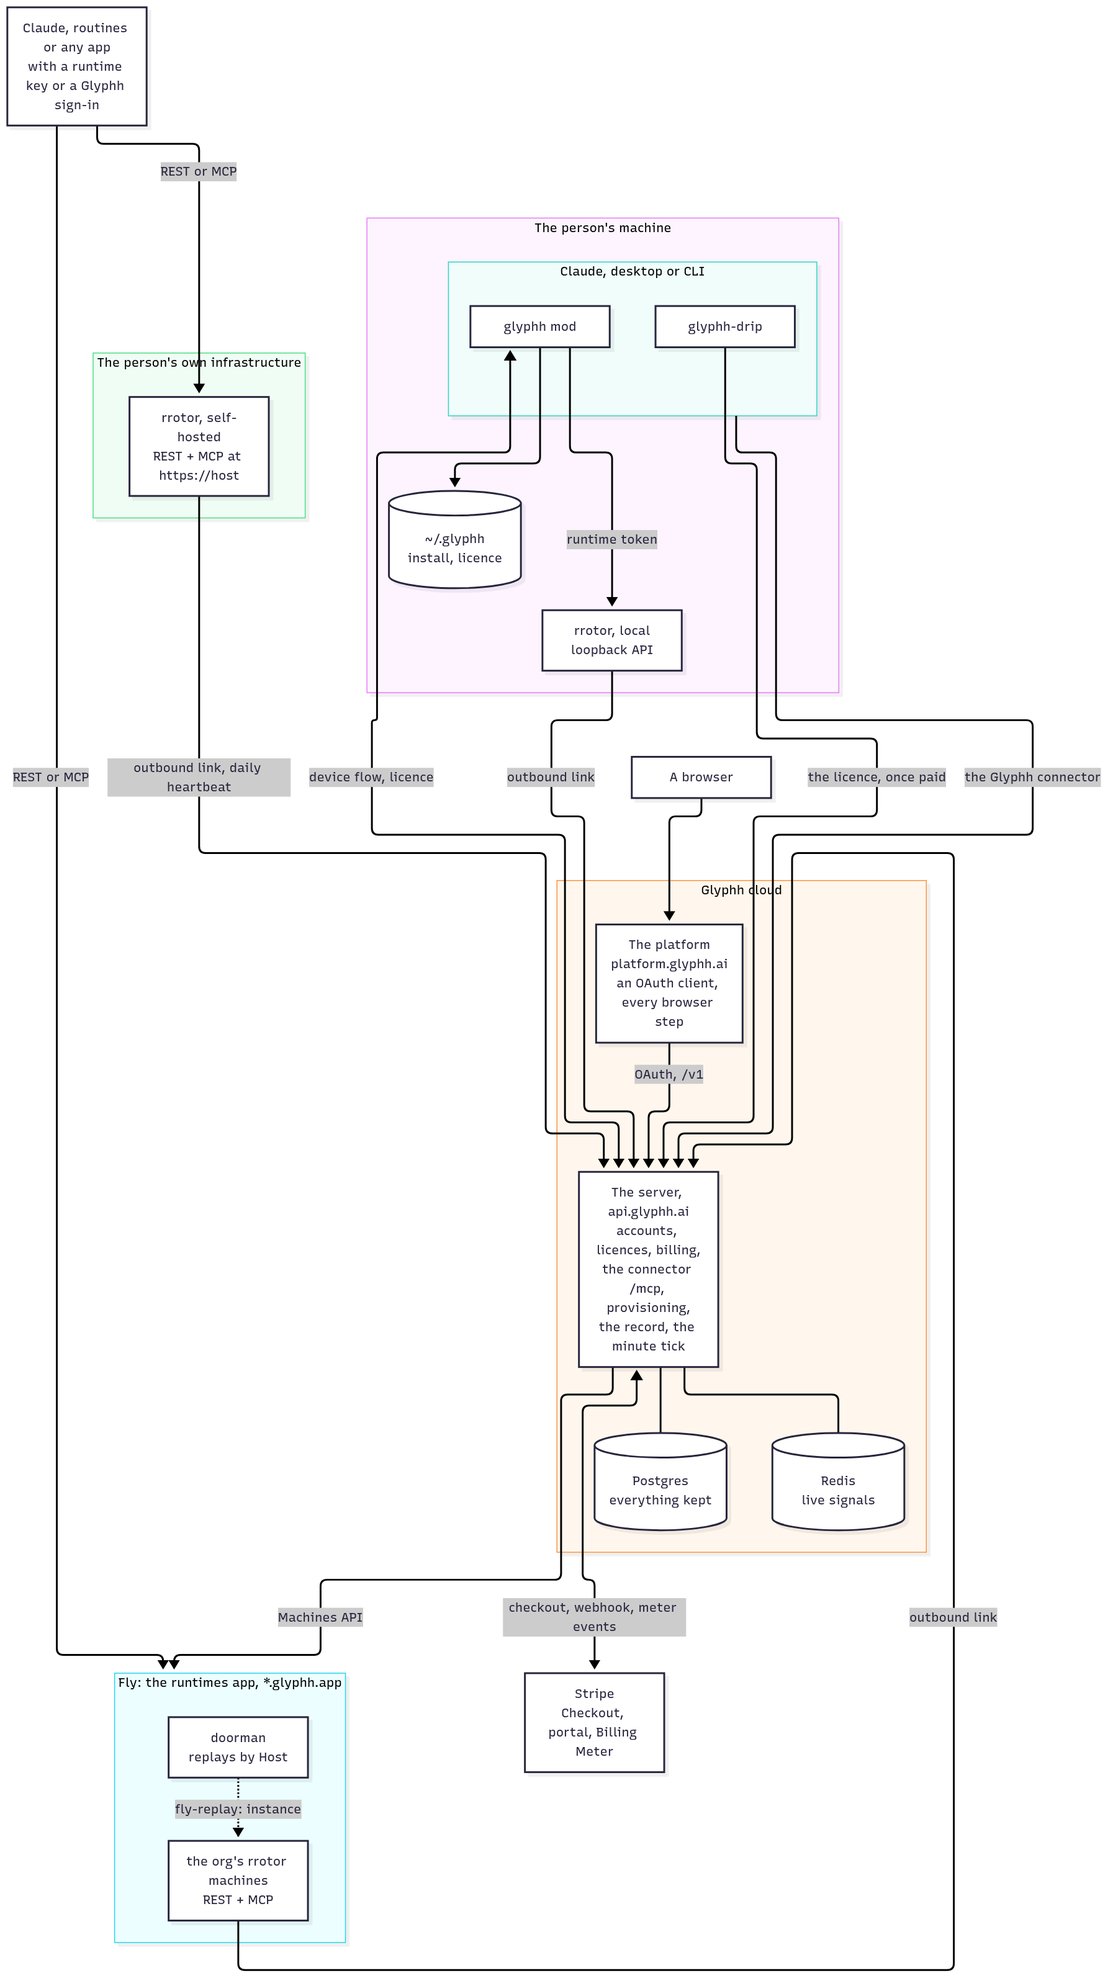
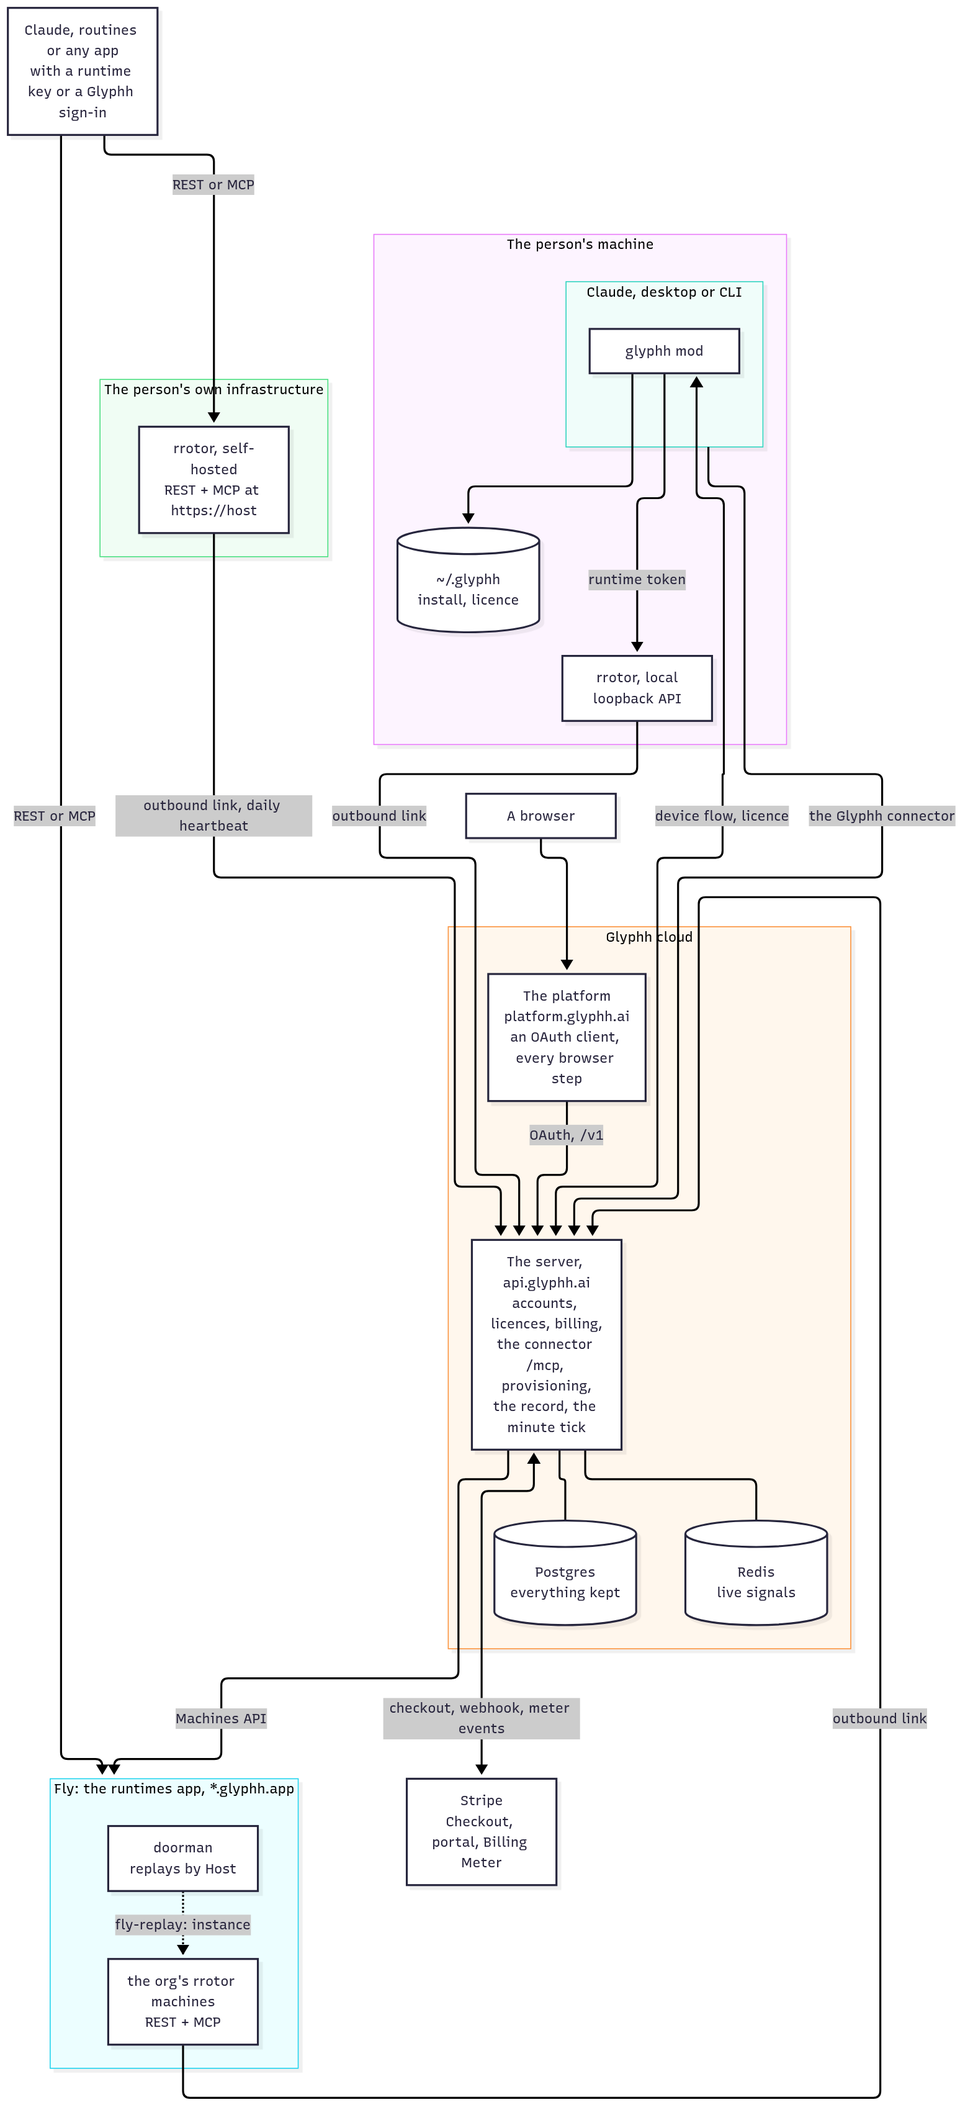
Docs: Glyphh Drip and its unlock out of the product, the mods, the API, the panels, the data model and the plans; both diagrams re-rendered from their source

Changed region(s): [[0.0, 0.0, 1.0, 1.0], [0.8438, 0.9688, 0.875, 1.0]]

diff --git a/server/docs/architecture.md b/server/docs/architecture.md
@@ -9,11 +9,9 @@ Glyphh as it is built: the [product](#product), the [architecture](#architecture
 | Mod | What it is | Runs | Sold | State |
 |---|---|---|---|---|
 | `glyphh` | The account: sign in, the licence, and the account, org, plan and billing panels. Every other mod depends on it | Claude | Every plan | Built |
-| `glyphh-drip` | Glyphh Drip: games and drips (visual effects with sound) over Claude: five arcade games, twenty drips, and the ones you make with Claude; your top score to beat | The person's Mac | Once, $4.99 per machine, no account | Built |
 | Ada | Ada models in your runtime: a typed spec and a precedent store, deployed by commit, run with no network, called by Claude and by any app at the runtime's own address | **rrotor**, an isolated runtime: local and self-hosted on every plan; hosted on Pro, Team and Enterprise | Every plan | Built: the runtime, the `ada` plugin (a skill, in `mods`), the SDKs `@glyphh-ai/ada` and `glyphh-ada` (`glyphh-ai/ada`, public) |
 
 - **Ada is in every plan.** A plan (Free, Pro, Team, Enterprise) sells managed precedents and hosted machines, never seats, models or installs (below, [Plans](#plans); the rules in [pricing.md](pricing.md)).
-- **Glyphh Drip is bought once**, per machine, with no Glyphh account: a Stripe Payment Link, then a licence the server signs for that install, checked offline from then on (below, Bought once).
 - **The platform is the one door.** Sign-in, the runtime and its keys, approvals, billing and the org are pages on the platform; the server renders nothing. In Claude, the `glyphh` mod and the Glyphh connector show the account too.
 - **Glyphh has no model in it.** Claude is the brain, on the person's own Claude; Glyphh's machines do exact work. Glyphh never holds a Claude login ([Anthropic's terms](#anthropics-terms)).
 - **Desktop first, then the CLI.** Mods look like Claude: its theme, its fonts. **Functional first:** every screen works before design draws it.
@@ -27,7 +25,6 @@ flowchart TB
     subgraph Machine["The person's machine"]
         subgraph Claude["Claude, desktop or CLI"]
             Base["glyphh mod"]
-            Fun["glyphh-drip"]
         end
         LocalRotor["rrotor, local<br/>loopback API"]
         Local[("~/.glyphh<br/>install, licence")]
@@ -61,7 +58,6 @@ flowchart TB
 
     Browser --> Platform
     Base <-- "device flow, licence" --> API
-    Fun -- "the licence, once paid" --> API
     Claude -- "the Glyphh connector" --> API
     Callers -- "REST or MCP" --> Fly
     Callers -- "REST or MCP" --> Self
@@ -81,7 +77,7 @@ flowchart TB
 | **The platform** | The one web app: sign in, the runtime and its keys, approvals, billing, the org, the models record; every browser step of every flow | `glyphh-ai/platform` | Routes specified below; pages to build to the design |
 | **The server** | The API and the authorization server: accounts, orgs, installs, the signed licence, plans and metered hosting on Stripe, the Glyphh connector (`/mcp`), provisioning, the runtime link and approvals. Renders nothing | `glyphh-ai/server` | Built |
 | **The `glyphh` mod** | The account in Claude | `glyphh-ai/glyphh` | Built |
-| **The mods** | `glyphh` (the account), `glyphh-drip` (bought once, on `shared/unlock/`), `ada` (the skill: build, deploy and call models on the runtime's connector; no hooks) | `glyphh-ai/mods` | Built |
+| **The mods** | `glyphh` (the account), `ada` (the skill: build, deploy and call models on the runtime's connector; no hooks) | `glyphh-ai/mods` | Built |
 | **The SDKs** | `@glyphh-ai/ada` (npm) and `glyphh-ada` (PyPI): a runtime's API for an app, with a runtime key; one contract (the Result, the Answer, the error) with fixtures taken live | `glyphh-ai/ada` (public, MIT) | Built; publishing on a `sdk-v*` tag |
 | **rrotor** | The runtime Ada installs into: a small base image, the model sandbox and runner, and a part per mod | `glyphh-ai/rrotor` | Built, local, hosted and self-hosted |
 | **The marketplace** | What buyers install from: each mod built, with its live values | Written by each source repo's release build | Built (publishing off) |
@@ -142,7 +138,7 @@ The pages that are the platform's own, from the API with the session's token: Ho
 - **A mod is a Claude Code plugin** whose hooks are a code module (`.claude-plugin/plugin.json`, `hooks/hooks.json` naming `register.tsx`). A mod can ship its own MCP server, skills and commands. Mods are behind `CLAUDE_CODE_ENABLE_FUNCTION_HOOKS` while the API is early access.
 - **Installed from the Glyphh marketplace** at the user scope, so it loads in every session, the desktop's Code tab too. Every mod depends on `glyphh`.
 - **Source and releases are apart.** The source repos hold tests, the shared modules and the release scripts; a release build writes only each mod's shipped files and the marketplace file, with the live server address and licence key swapped in.
-- **A mod sold once** (`glyphh-drip`) keeps its own licence and checks it at start; `/drip unlock` buys it. **A mod on the account** checks the plan's licence at start.
+- **A mod on the account** checks the plan's licence at start.
 
 ### Two kinds of panel
 
@@ -375,7 +371,6 @@ JSON over HTTPS under `/v1`, described by `/openapi.json`. Every call but the he
 | Account | `GET`/`PATCH /v1/me` (the org, the plan, `precedents` and `hosting` as in `GET /v1/billing`), `POST /v1/me/identities` (a link that adds Google or GitHub), `DELETE /v1/me/identities/{provider}`, `GET /v1/installs`, `DELETE /v1/installs/{id}`, `POST /v1/sign-out`, `GET /v1/license`, `GET /v1/license/key`, `POST /v1/license/verify` (a self-hosted runtime's heartbeat, its runtime token as auth) |
 | Org | `GET`/`PATCH /v1/org`, `GET /v1/org/members`, `DELETE /v1/org/members/{user_id}`, `GET`/`POST /v1/org/invites`, `DELETE /v1/org/invites/{id}`, `POST /v1/invites/accept` |
 | Mods, plans, billing | `GET /v1/mods` (each mod and the plans that include it: every one), `GET /v1/plans`, `GET /v1/rates`, `GET /v1/billing`, `POST /v1/billing/checkout`, `/plan`, `/portal`, `POST /v1/stripe/webhook` (below, Billing and hosting) |
-| Bought once | `GET /v1/unlock/license?mod=&install=` (open: `paid` false until the mod's Payment Link checkout for that install is paid, then the licence); Stripe's webhook records `checkout.session.completed` in `payment` mode and `charge.refunded` (below, Bought once) |
 | Runtime | `POST /v1/runtime/local` (a local rrotor's runtime token, for this install: made the first time, rotated after, shown once); `/v1/runtime/link`, the runtime's outbound WebSocket, hosted, local or self-hosted (protocol 1, as rrotor's `docs/architecture.md` section 6: the token in the `Authorization` header, a local runtime refused once its install is signed out, `hello` then `welcome`, the runtime `online` until it closes; results and events acked and applied once by their sequence number; a newer link of the same runtime takes over). Which server process holds which link: in memory, and a Redis channel per runtime, so a message sent on any process reaches it. The service functions other code calls: `send_continue` (an approval's answer) and `send_deploy`; calls never go down the link. A hosted runtime no process holds is woken first (its machine started) and the message waits up to 45 s for its link (with hosting off, `E_UNAVAILABLE` `hosting_off`); a runtime still not linked answers `E_UNAVAILABLE` `runtime_offline` with `last_seen_at`, in words for its kind (`AWAY` in `ops/link/calls.py`: a hosted machine that was started but did not connect in time, a local runtime to start from Claude, a self-hosted one to check). `GET /v1/runtime` (the first machine: `{runtime_id, address, state, region, image_version, last_seen_at, seconds_used}`, `state` `none` with no machine), `POST /v1/runtime/start` (made the first time, within the plan's machines; `E_UNAVAILABLE` `hosting_off` or `fly_failed`), `POST /v1/runtime/stop`, `DELETE /v1/runtime` (the machine, the volume and every model's data on it); `GET`/`POST /v1/runtimes`, `GET /v1/runtimes/{id}`, `POST /v1/runtimes/{id}/start`, `/stop`, `/restart`, `DELETE /v1/runtimes/{id}?confirm=<name>` (above, Machines); `GET`/`POST /v1/runtime/keys` (a key shown once, `glyphh_rk_…`, for the machine or self-hosted runtime `runtime_id` names, or every hosted machine of the person's; its hash to rrotor at once when linked, else in its next welcome), `DELETE /v1/runtime/keys/{id}` (revoked: answers the key, named in the list, dated, no longer taken), `DELETE /v1/runtime/keys/{id}/record` (204: a revoked or expired key's record gone; a live one `E_CONFLICT` `live`); `GET`/`POST /v1/runtimes/self`, `POST /v1/runtimes/self/{id}/token`, `DELETE /v1/runtimes/self/{id}`, `POST /v1/runtimes/{id}/offline-licence` (above, Self-hosted runtimes) |
 | GitHub | `POST /v1/github/install` (a link for the browser, as linking does), `GET /v1/github/install` (to the Glyphh GitHub App's install page), `GET /v1/github/callback` (records the installation, from the browser that started it, when GitHub says it is on the person's own GitHub account), `GET /v1/github/installations`; the Cloud mints a repo-scoped installation token per deploy |
 | Routine triggers | `GET`/`POST /v1/routine-triggers` (name, fire URL, token, optional model; the token is never shown again), `DELETE /v1/routine-triggers/{id}`; the Cloud fires them (`POST …/fire`) on a model's events |
@@ -492,14 +487,6 @@ sequenceDiagram
 
 **Setting Stripe up:** `scripts/stripe-setup.py` (below, Plans).
 
-### Bought once
-
-Glyphh Drip is sold once, per machine, with no Glyphh account. It has a Stripe **Payment Link** (`PAYMENT_LINK` in the mod, set by the release build) whose metadata names the mod (`mod: glyphh-drip`). `/drip unlock` opens it with the mod's own install id as `client_reference_id`, then asks `GET /v1/unlock/license?mod=<mod>&install=<id>` every few seconds.
-
-- **The webhook** records a `checkout.session.completed` in `payment` mode whose metadata names a mod sold once and whose `payment_status` is `paid`: one `unlocks` row per session (a replay changes nothing), with its payment intent. A `charge.refunded` marks the row of that payment intent refunded.
-- **The licence** is `base64url(payload) "." base64url(signature)` (unpadded): the payload `{"v": 1, "mod", "install", "session", "issued"}` as compact JSON, keys sorted, `issued` the purchase's time; the Ed25519 signature over the first part's text, with the server's one key (the one `GET /v1/license/key` serves; the mod carries it, having no account to fetch it with). `GET /v1/unlock/license` answers `{paid, licence}`, the newest purchase not refunded; a mod not sold once is `E_INVALID` `no_mod`. The mod checks it offline and keeps it; `/<mod> key <licence>` carries it to another machine. A refunded purchase is no longer handed out; a licence already on a machine keeps working, which an offline check cannot help.
-- **No account, no org, no row-level security:** the install id is the only key, the licence is for that install alone, and nothing else is learned from it.
-
 ### The connector
 
 A remote MCP server at `{public_url}/mcp`, its own OAuth 2.1 authorization server, following MCP's authorization spec (revision 2026-07-28). Through it a person manages their Glyphh account from Claude or any MCP client.
@@ -562,7 +549,6 @@ The panels in Claude; the platform's pages are above. Each works before design d
 | Sign in, account, org, plan, billing | `glyphh` | Mod | Built |
 | The sign-in card, in the chat | `glyphh`'s MCP server | MCP App | Built |
 | The account: who, plan, usage, upgrade, billing, installs, grants | The Glyphh connector | MCP App | Built |
-| Locked, with the price and **Unlock**; the Drips and Games tabs | `glyphh-drip` | Mod | Built |
 
 ### Anthropic's terms
 
@@ -858,14 +844,6 @@ erDiagram
         text_array grant_types
         timestamp created_at
     }
-    UNLOCKS {
-        text session_id PK "Stripe's checkout session"
-        text mod "glyphh-drip"
-        text install "the mod's own install id"
-        text payment_intent_id UK
-        timestamp paid_at
-        timestamp refunded_at
-    }
     OAUTH_CODES {
         text code_hash PK
         uuid client_id FK
@@ -920,7 +898,6 @@ Every table and column is drawn, as `db/schema.sql` has them (28 tables); the ta
 - **OAuth clients:** the MCP clients that registered (RFC 7591), each with its exact redirect URIs; a confidential one's secret only as a hash. They belong to no org.
 - **OAuth codes:** an authorization the person allowed, until its code is redeemed (once, within 2 minutes), with its PKCE challenge and the resource it is for; `grant_id` names the grant it went into, so a second use revokes it.
 - **Connector grants:** each client (a routine, the desktop, claude.ai) the person allowed to call the Glyphh connector, one live per client, revocable one by one. **Connector tokens:** its access tokens (1 hour) and refresh tokens (30 days, rotated on use; a rotated one used again revokes the grant), kept only as hashes.
-- **Unlocks:** a mod bought once for one machine, from Stripe's finished Payment Link checkout, keyed by the session; its payment intent, so a refund finds it. No org and no user: outside row-level security.
 - **Orgs:** `renews_at` is when the subscription renews, from Stripe; empty when it isn't subscribed or ends at the period's end. `markup_pct` and `plan_until` are an Enterprise grant's.
 
 ### Keys, checks, indexes and row-level security
@@ -956,9 +933,8 @@ Every constraint and index in `db/schema.sql`, table by table. An `ix_<table>_<c
 | `oauth_codes` | PK `code_hash` | `client_id` → `oauth_clients` (cascade); `user_id` → `users` (cascade); `grant_id` → `connector_grants` (cascade) | `ix_oauth_codes_client_id`; `ix_oauth_codes_user_id` | its user is visible |
 | `connector_grants` | PK `id` | `user_id` → `users` (cascade); `client_id` → `oauth_clients` (cascade) | `connector_grants_user_client` unique on (`user_id`, `client_id`) where `revoked_at` is null; `ix_connector_grants_client_id`; `ix_connector_grants_user_id` | its user is visible |
 | `connector_tokens` | PK `id`; `token_hash` unique; `connector_tokens_kind` `kind` in `access`, `refresh` | `grant_id` → `connector_grants` (cascade) | `ix_connector_tokens_grant_id` | its grant is visible |
-| `unlocks` | PK `session_id`; `payment_intent_id` unique; `unlocks_mod` `mod` in `glyphh-drip` | none | `ix_unlocks_mod_install` on (`mod`, `install`) | none: no org |
 
-**Row-level security.** Each of the 22 tables marked above has row-level security enabled and forced (so it binds the server's own role, which is no superuser), and one policy, `tenant`. A request made with an install's token or an OAuth access token, and a runtime's own link, heartbeat and introspection, run in their org: `glyphh.org_id` is set for the transaction (`db/tenancy.py`). With it set, `tenant` shows only that org's rows: the org itself, rows whose `org_id` is it, and rows reached through a visible parent (a user, an install, a grant, a model, a version or a run). With it unset (sign-in, the connector's OAuth endpoints, Stripe's webhook, the schema step, the minute tick's sweeps and the few operations that cross orgs on purpose, such as joining another org) every row is seen. The tables marked none (`mods`, `plans`, `plan_versions`, `fly_rates`, `device_codes`, `oauth_clients`, `unlocks`) belong to no org.
+**Row-level security.** Each of the 22 tables marked above has row-level security enabled and forced (so it binds the server's own role, which is no superuser), and one policy, `tenant`. A request made with an install's token or an OAuth access token, and a runtime's own link, heartbeat and introspection, run in their org: `glyphh.org_id` is set for the transaction (`db/tenancy.py`). With it set, `tenant` shows only that org's rows: the org itself, rows whose `org_id` is it, and rows reached through a visible parent (a user, an install, a grant, a model, a version or a run). With it unset (sign-in, the connector's OAuth endpoints, Stripe's webhook, the schema step, the minute tick's sweeps and the few operations that cross orgs on purpose, such as joining another org) every row is seen. The tables marked none (`mods`, `plans`, `plan_versions`, `fly_rates`, `device_codes`, `oauth_clients`) belong to no org.
 
 ### In rrotor
 
@@ -966,7 +942,7 @@ Every constraint and index in `db/schema.sql`, table by table. An `ix_<table>_<c
 
 ## Plans
 
-Never per seat, per model or per install: a plan sells managed precedents and the managed hosting option, flat, and every mod (Ada) is in every plan. Glyphh Drip is outside the plans: $4.99 once, per machine. The rules, and how an Enterprise customer is set up, are in [pricing.md](pricing.md).
+Never per seat, per model or per install: a plan sells managed precedents and the managed hosting option, flat, and every mod (Ada) is in every plan. The rules, and how an Enterprise customer is set up, are in [pricing.md](pricing.md).
 
 | | Free | Pro | Team | Enterprise |
 |---|---|---|---|---|

diff --git a/server/README.md b/server/README.md
@@ -1,6 +1,6 @@
 # server
 
-The Glyphh server: the one cloud part behind Glyphh's mods for Claude, sold as flat plans (Free, Pro, Team, Enterprise) that each include every mod on the account (`ada`), never per seat, per model or per install, with hosted machines metered per second; and one mod bought once, per machine, with no account (`glyphh-drip`: a Stripe Payment Link, then a licence the server signs for that install). It renders nothing: people use the platform (`glyphh-ai/platform`), or Claude through the Glyphh connector (`/mcp`, signed in with OAuth). It keeps accounts, one org per user, invites, the mods catalog, versioned plans (Free, Pro and Team through Stripe, Enterprise granted by contract), each with its hosted machines, managed precedents and features, Fly's rates and each hosted machine's month metered at them, reported to a Stripe Billing Meter, installs signed in by device flow (RFC 8628), one per machine, a signed license carrying the plan's features and each mod's limits, and the record of Ada models: runtimes (hosted machines up to the org's plan's, one local per install, and any self-hosted ones, each with its own token), the models (`models`, as rrotor runs them) and their versions (a commit each, in the person's own repo), deployments, runs, approvals, connector grants, the Glyphh GitHub App's installations (repo-scoped tokens minted per deploy), routine triggers (fired on a model's events, their tokens encrypted) and model events. The connector (OAuth 2.1 and `/mcp`, with the account and model tools and the account panel), the models record and the hosted runtimes (several Fly machines per org on Pro, Team and Enterprise, each named and small, medium or large, reached directly at `https://<machine>.glyphh.app` with a runtime key, stopped when idle, billed per second) and self-hosted runtimes (registered by public address, their licence by link, a daily heartbeat or offline) are built; calling a model never passes through here. What a person makes stays on their machine or in their runtime. `docs/architecture.md` is the contract: the API, the data model and the plans; `docs/pricing.md` holds the pricing's rules and how an Enterprise customer is set up.
+The Glyphh server: the one cloud part behind Glyphh's mods for Claude, sold as flat plans (Free, Pro, Team, Enterprise) that each include every mod on the account (`ada`), never per seat, per model or per install, with hosted machines metered per second. It renders nothing: people use the platform (`glyphh-ai/platform`), or Claude through the Glyphh connector (`/mcp`, signed in with OAuth). It keeps accounts, one org per user, invites, the mods catalog, versioned plans (Free, Pro and Team through Stripe, Enterprise granted by contract), each with its hosted machines, managed precedents and features, Fly's rates and each hosted machine's month metered at them, reported to a Stripe Billing Meter, installs signed in by device flow (RFC 8628), one per machine, a signed license carrying the plan's features and each mod's limits, and the record of Ada models: runtimes (hosted machines up to the org's plan's, one local per install, and any self-hosted ones, each with its own token), the models (`models`, as rrotor runs them) and their versions (a commit each, in the person's own repo), deployments, runs, approvals, connector grants, the Glyphh GitHub App's installations (repo-scoped tokens minted per deploy), routine triggers (fired on a model's events, their tokens encrypted) and model events. The connector (OAuth 2.1 and `/mcp`, with the account and model tools and the account panel), the models record and the hosted runtimes (several Fly machines per org on Pro, Team and Enterprise, each named and small, medium or large, reached directly at `https://<machine>.glyphh.app` with a runtime key, stopped when idle, billed per second) and self-hosted runtimes (registered by public address, their licence by link, a daily heartbeat or offline) are built; calling a model never passes through here. What a person makes stays on their machine or in their runtime. `docs/architecture.md` is the contract: the API, the data model and the plans; `docs/pricing.md` holds the pricing's rules and how an Enterprise customer is set up.
 
 ## Run it
 
